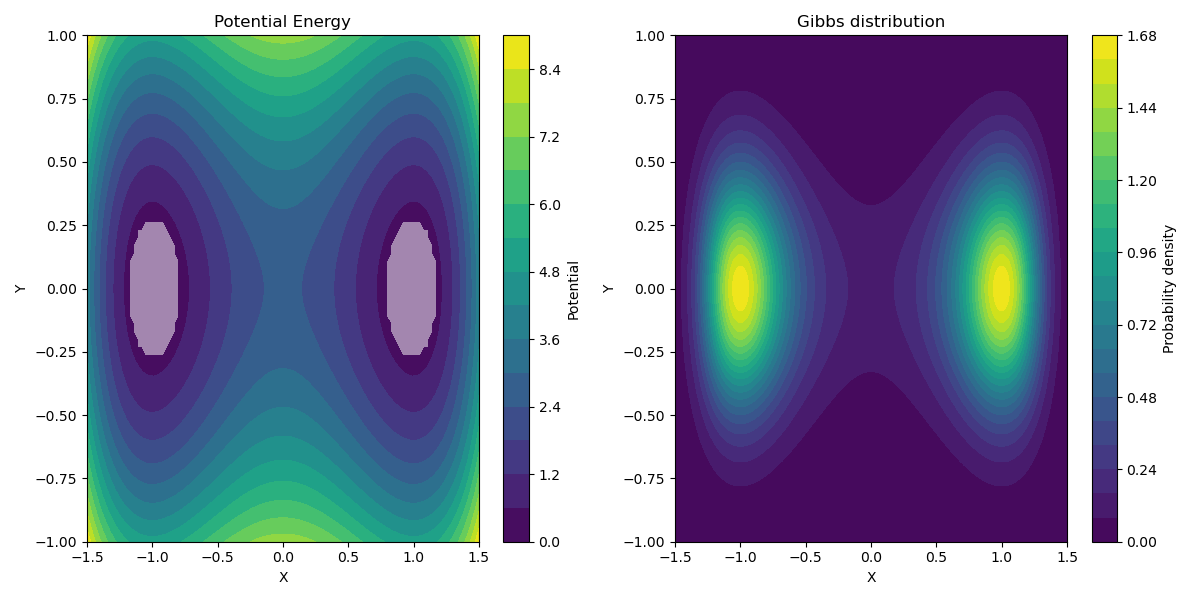
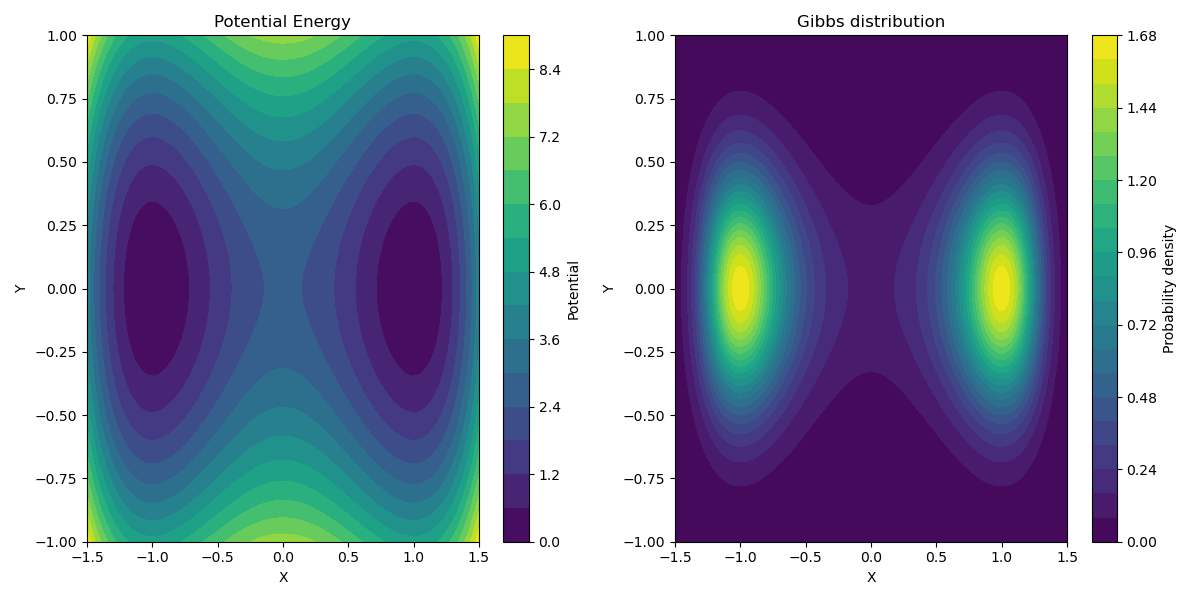
main cleaned

Changed region(s): [[0.3083, 0.36, 0.37, 0.6], [0.0925, 0.36, 0.1542, 0.6]]

diff --git a/dw2d/dw_analyse.py b/dw2d/dw_analyse.py
@@ -22,7 +22,7 @@ plt.contourf(X, Y, V, levels=15, cmap='viridis')
 plt.colorbar(label='Potential')
 highlighted_levels = np.array([-1])  # Value that highlights the region
 highlighted_contour = np.where(T_bol, highlighted_levels, np.nan)
-plt.contourf(X, Y, highlighted_contour, colors='white', alpha=0.5)
+plt.contourf(X, Y, highlighted_contour, colors='white', alpha=0.0)
 plt.xlabel('X')
 plt.ylabel('Y')
 plt.title('Potential Energy')
@@ -44,8 +44,8 @@ q = np.load("dw2d/data.npy")
 
 # kernel of the probability density of reactive trajectories
 m = q * (1-q) * np.exp(-beta*V)
-Zm = np.sum(m)
-m = m / Zm
+# Zm = np.sum(m)
+# m = m / Zm
 
 
 # plot q and m
@@ -66,7 +66,7 @@ contourf = plt.contourf(X, Y, m, levels=10, cmap='viridis')
 highlighted_levels = np.array([-1])  # Value that highlights the region
 highlighted_contour = np.where(T_bol, highlighted_levels, np.nan)
 plt.contourf(X, Y, highlighted_contour, colors='white', alpha=0.5)
-plt.colorbar(contourf)
+# plt.colorbar(contourf)
 plt.xlabel('X')
 plt.ylabel('Y')
 plt.title('Kernel of the transition path density')

diff --git a/tw2d/tw_analyse.py b/tw2d/tw_analyse.py
@@ -22,7 +22,7 @@ plt.contourf(X, Y, V, levels=15, cmap='viridis')
 plt.colorbar(label='Potential')
 highlighted_levels = np.array([-1])  # Value that highlights the region
 highlighted_contour = np.where(T_bol, highlighted_levels, np.nan)
-plt.contourf(X, Y, highlighted_contour, colors='white', alpha=0.5)
+plt.contourf(X, Y, highlighted_contour, colors='white', alpha=0.0)
 plt.xlabel('X')
 plt.ylabel('Y')
 plt.title('Potential Energy')
@@ -44,8 +44,8 @@ q = np.load("tw2d/data.npy")
 
 # kernel of the probability density of reactive trajectories
 m = q * (1-q) * np.exp(-beta*V)
-Zm = np.sum(m)
-m = m / Zm
+# Zm = np.sum(m)
+# m = m / Zm
 
 
 # plot q and m
@@ -66,7 +66,7 @@ contourf = plt.contourf(X, Y, m, levels=10, cmap='viridis')
 highlighted_levels = np.array([-1])  # Value that highlights the region
 highlighted_contour = np.where(T_bol, highlighted_levels, np.nan)
 plt.contourf(X, Y, highlighted_contour, colors='white', alpha=0.2)
-plt.colorbar(contourf)
+# plt.colorbar(contourf)
 plt.xlabel('X')
 plt.ylabel('Y')
 plt.title('Kernel of the transition path density')

diff --git a/tw2d/tw_init.py b/tw2d/tw_init.py
@@ -52,6 +52,7 @@ def V_partialy(x, y):
 
 
 # simulation parameters
+# beta = 1.67
 beta = 6.67
 
 Lx = (-2.0, 2.0)
